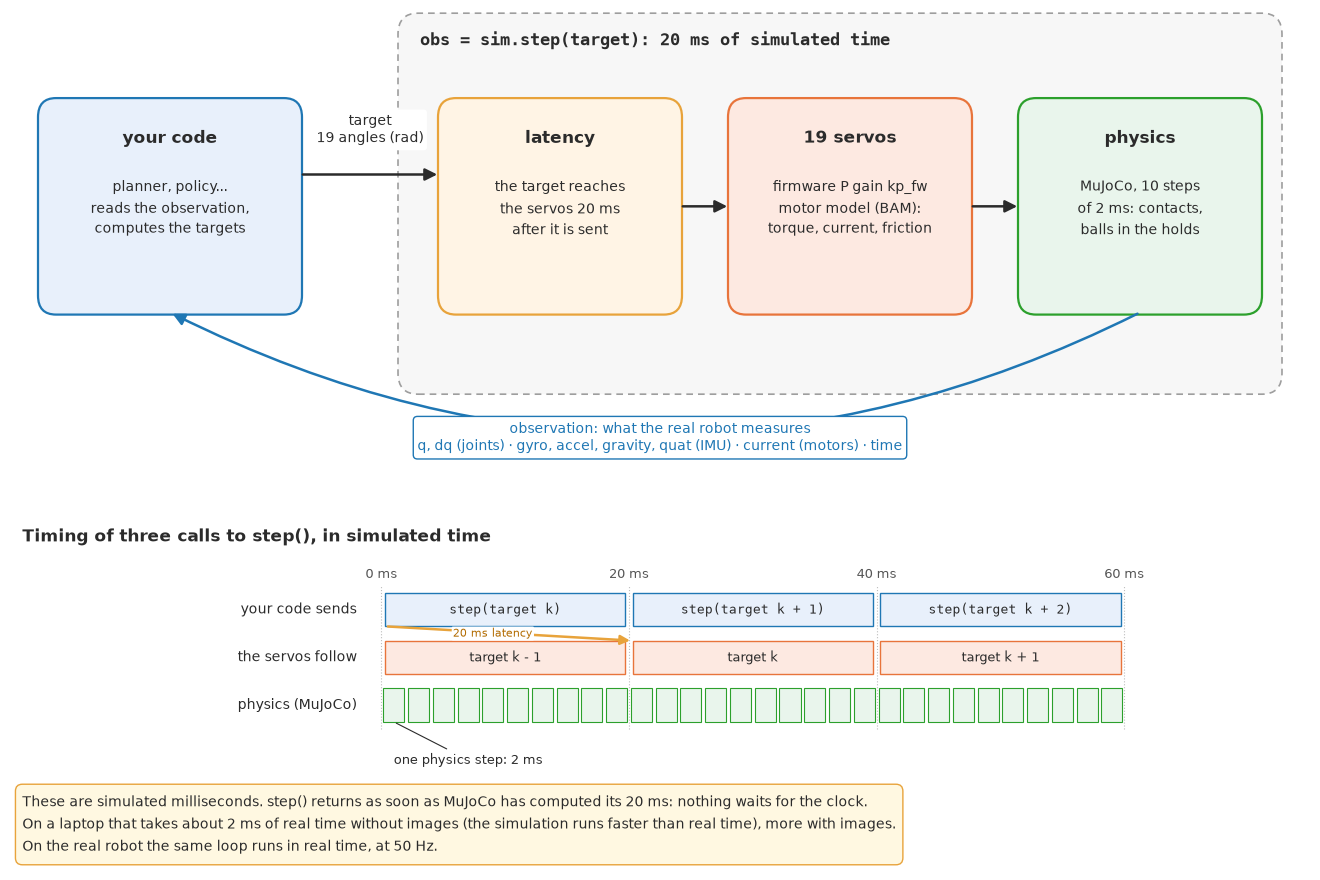
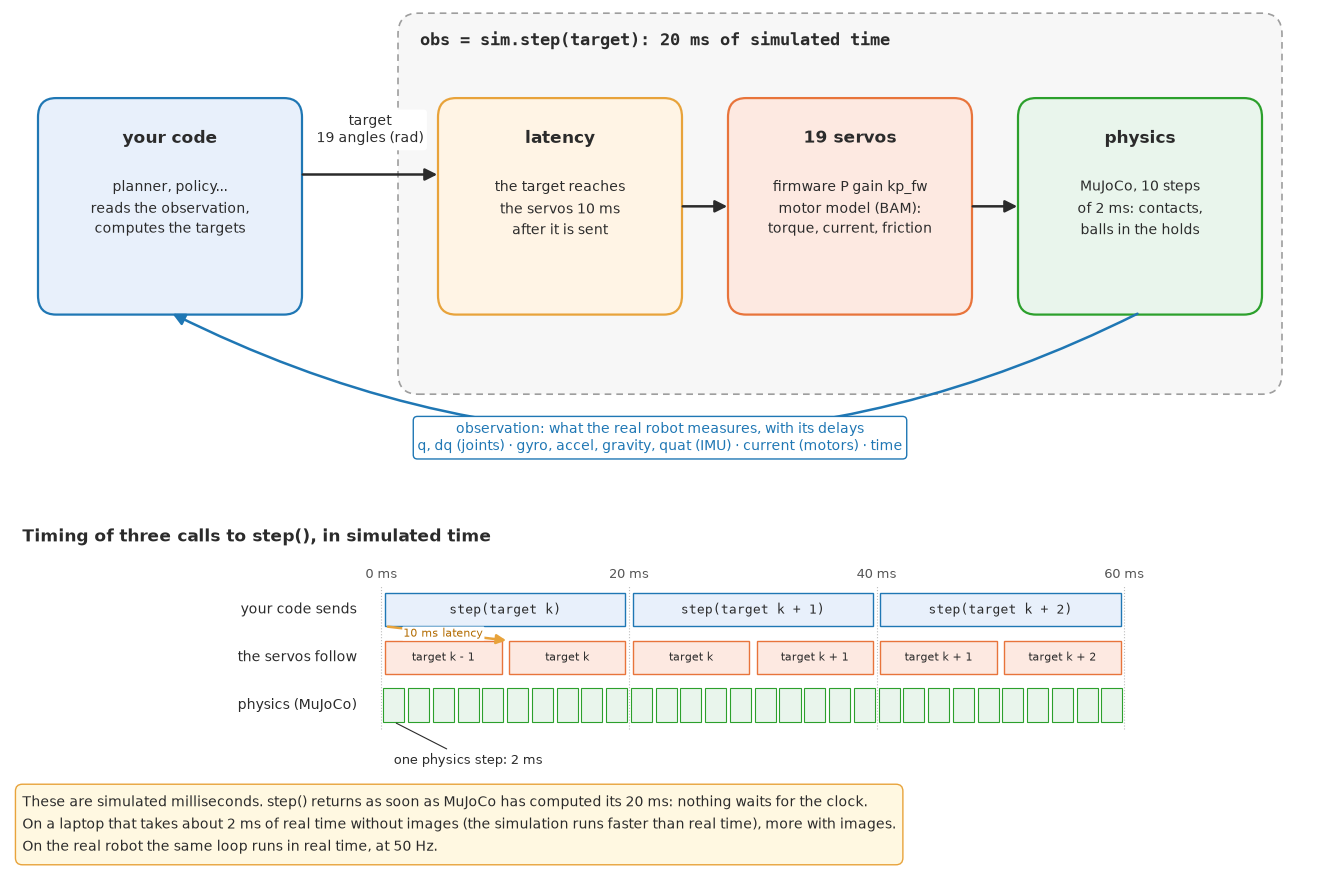
docs: the control loop figure with the 10 ms latency and the sensors' delays
Claude-Session: https://claude.ai/code/session_018d9UckeD9X4H8Nj272GbiR

diff --git a/docs/make_figures.py b/docs/make_figures.py
@@ -381,7 +381,7 @@ def control_loop():
                                 ec="#9e9e9e", lw=1.2, ls=(0, (4, 3))))
     ax.text(4.1, 3.95, "obs = sim.step(target): 20 ms of simulated time", ha="left", va="top", fontsize=12, weight="bold",
             family="monospace", color=INK)
-    box(4.3, 1.3, 2.4, 2.0, "latency", "the target reaches\nthe servos 20 ms\nafter it is sent", "#fff4e5",
+    box(4.3, 1.3, 2.4, 2.0, "latency", "the target reaches\nthe servos 10 ms\nafter it is sent", "#fff4e5",
         "#e8a33b")
     box(7.2, 1.3, 2.4, 2.0, "19 servos", "firmware P gain kp_fw\nmotor model (BAM):\ntorque, current, friction",
         "#fde9e1", HOLD_RGB)
@@ -392,8 +392,8 @@ def control_loop():
     link((9.6, 2.3), (10.1, 2.3))
     ax.add_patch(FancyArrowPatch((11.3, 1.3), (1.6, 1.3), arrowstyle="-|>", mutation_scale=18, lw=1.8, color=BLUE,
                                  connectionstyle="arc3,rad=-0.25"))
-    ax.text(6.5, 0.12, "observation: what the real robot measures\nq, dq (joints) · gyro, accel, gravity, quat (IMU)"
-            " · current (motors) · time", ha="center", va="center", fontsize=10, color=BLUE,
+    ax.text(6.5, 0.12, "observation: what the real robot measures, with its delays\nq, dq (joints) · gyro, accel, "
+            "gravity, quat (IMU) · current (motors) · time", ha="center", va="center", fontsize=10, color=BLUE,
             bbox=dict(boxstyle="round,pad=0.3", fc="white", ec=BLUE, lw=1))
 
     # timing, in simulated time: what your code sends, what the servos follow, the physics steps
@@ -411,14 +411,16 @@ def control_loop():
         t.add_patch(Rectangle((x0 + 0.3, 1.9), 19.4, 0.7, fc="#e8f0fb", ec=BLUE, lw=1))
         t.text(x0 + 10, 2.25, f"step(target {name})", ha="center", va="center", fontsize=9, family="monospace",
                color=INK)
-        prev = ["k - 1", "k", "k + 1"][k]
-        t.add_patch(Rectangle((x0 + 0.3, 0.9), 19.4, 0.7, fc="#fde9e1", ec=HOLD_RGB, lw=1))
-        t.text(x0 + 10, 1.25, f"target {prev}", ha="center", va="center", fontsize=9, color=INK)
+        prev = ["k - 1", "k", "k + 1"][k]                  # the first 10 ms: the last target, then this one
+        t.add_patch(Rectangle((x0 + 0.3, 0.9), 9.4, 0.7, fc="#fde9e1", ec=HOLD_RGB, lw=1))
+        t.text(x0 + 5, 1.25, f"target {prev}", ha="center", va="center", fontsize=8, color=INK)
+        t.add_patch(Rectangle((x0 + 10.3, 0.9), 9.4, 0.7, fc="#fde9e1", ec=HOLD_RGB, lw=1))
+        t.text(x0 + 15, 1.25, f"target {name}", ha="center", va="center", fontsize=8, color=INK)
         for i in range(10):
             t.add_patch(Rectangle((x0 + 2 * i + 0.15, -0.1), 1.7, 0.7, fc="#e9f5ec", ec="#2ca02c", lw=0.8))
-    t.annotate("", (20.3, 1.6), (0.3, 1.9), arrowprops=dict(arrowstyle="-|>", color="#e8a33b", lw=1.8,
+    t.annotate("", (10.3, 1.6), (0.3, 1.9), arrowprops=dict(arrowstyle="-|>", color="#e8a33b", lw=1.8,
                                                            mutation_scale=14))
-    t.text(9, 1.75, "20 ms latency", ha="center", va="center", fontsize=8, color="#b26b00",
+    t.text(5, 1.75, "10 ms latency", ha="center", va="center", fontsize=8, color="#b26b00",
            bbox=dict(boxstyle="round,pad=0.1", fc="white", ec="none"))
     t.annotate("one physics step: 2 ms", (1.0, -0.1), (1.0, -0.75), ha="left", va="top", fontsize=9, color=INK,
                arrowprops=dict(arrowstyle="-", color=INK, lw=0.8))
